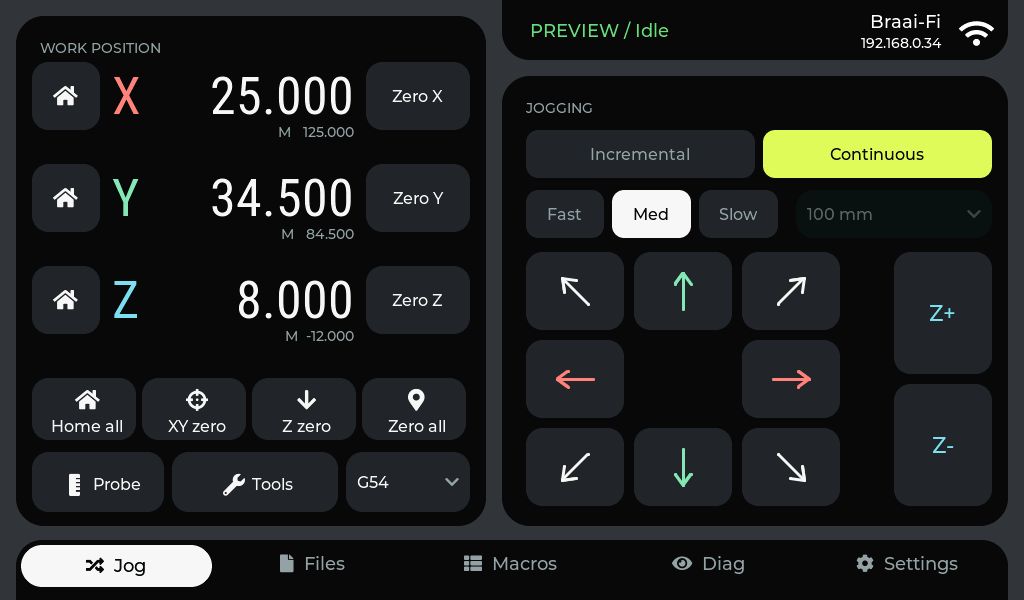
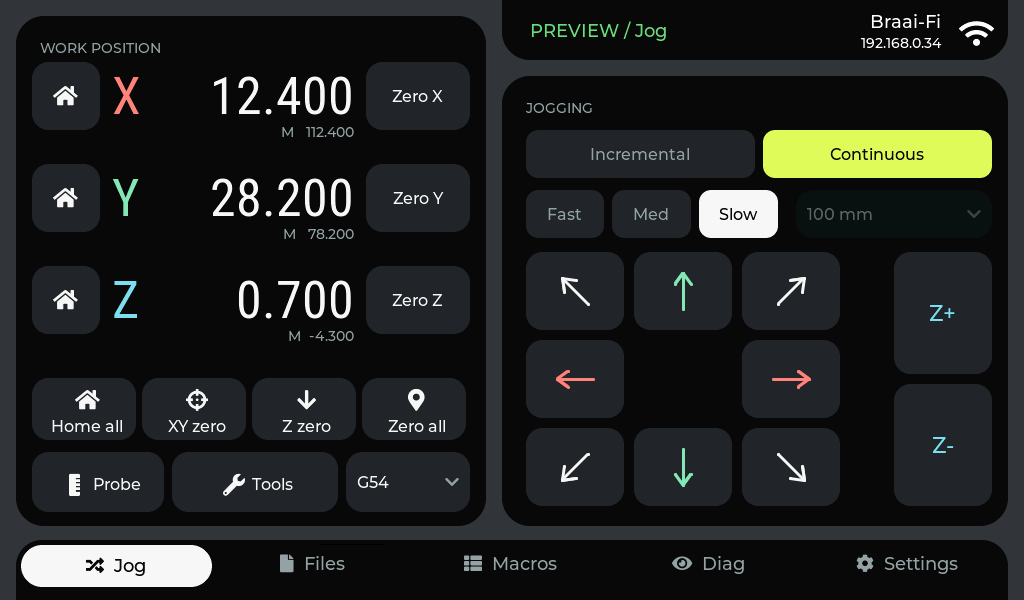
Keep jog controls steady during movement

diff --git a/firmware/viewesmart-p4/main/panel_ui.cpp b/firmware/viewesmart-p4/main/panel_ui.cpp
@@ -131,6 +131,7 @@ static bool file_run_usable[4]={};
 static lv_obj_t *file_previous=nullptr,*file_next=nullptr,*file_page_label=nullptr;
 static bool continuous = false, jog_held = false;
 static uint32_t jog_pressed_at, jog_hold_ms;
+static uint32_t jog_control_key = UINT32_MAX, jog_control_updates;
 static lv_obj_t *jog_buttons[10];
 static int jog_count;
 static char home_axis;
@@ -702,6 +703,11 @@ static void jog_event(lv_event_t *e) {
                                  continuous ? 10000 : jog_step_mm(inches, step_index), jog_speed);
         jog_held = ok && continuous;
         if (jog_held) jog_pressed_at = now();
+        if (!ok) {
+            runtime_snapshot(state);
+            if (state.online && !state.alarm && !state.error &&
+                (state.busy || !strncmp(state.mode, "Jog", 3))) return;
+        }
         result(ok);
     } else if (lv_event_get_code(e) == LV_EVENT_RELEASED || lv_event_get_code(e) == LV_EVENT_PRESS_LOST) {
         release_jog();
@@ -1162,11 +1168,16 @@ static void wifi_notification() {
 
 static void wifi_refresh_ui() {
     wifi_bridge_snapshot(&wifi);
-    if (!modal) lv_label_set_text(wifi_header_name, wifi.connected ? wifi.ssid : wifi.connecting ? "Connecting..." : "Not connected");
-    if (!modal) lv_label_set_text(wifi_header_ip, wifi.connected ? wifi.ip : "Wi-Fi");
-    lv_obj_set_style_text_color(wifi_icon, lv_color_hex(wifi.connected ? WHITE : MUTED), 0);
-    lv_obj_set_style_opa(wifi_icon, !wifi.connected || !wifi.rssi || wifi.rssi >= -60 ? LV_OPA_COVER :
-                                         wifi.rssi >= -75 ? LV_OPA_80 : LV_OPA_50, 0);
+    const char *name = wifi.connected ? wifi.ssid : wifi.connecting ? "Connecting..." : "Not connected";
+    const char *ip = wifi.connected ? wifi.ip : "Wi-Fi";
+    if (!modal && strcmp(lv_label_get_text(wifi_header_name), name)) lv_label_set_text(wifi_header_name, name);
+    if (!modal && strcmp(lv_label_get_text(wifi_header_ip), ip)) lv_label_set_text(wifi_header_ip, ip);
+    lv_color_t icon_color = lv_color_hex(wifi.connected ? WHITE : MUTED);
+    if (!lv_color_eq(lv_obj_get_style_text_color(wifi_icon, 0), icon_color))
+        lv_obj_set_style_text_color(wifi_icon, icon_color, 0);
+    lv_opa_t icon_opa = !wifi.connected || !wifi.rssi || wifi.rssi >= -60 ? LV_OPA_COVER :
+                        wifi.rssi >= -75 ? LV_OPA_80 : LV_OPA_50;
+    if (lv_obj_get_style_opa(wifi_icon, 0) != icon_opa) lv_obj_set_style_opa(wifi_icon, icon_opa, 0);
     if (wifi_attempt && !wifi.connecting && tab_for_page(page) >= 0) {
         wifi_attempt = false;
         wifi_notification();
@@ -1235,6 +1246,7 @@ static void probe_refresh_ui() {
     }
 }
 static void build_page() {
+    jog_control_key = UINT32_MAX;
     storage_preview_viewing(false);
     runtime_snapshot(state);
     if (state.cycle_axis >= 0)
@@ -1453,7 +1465,7 @@ static void refresh_dro(bool colors = true) {
     for (int i = 0; i < 3; ++i) {
         if (state.coordinates && state.wco_known) {
             snprintf(work, sizeof work, "% .3f", state.work[i] / display_scale(inches));
-            snprintf(machine, sizeof machine, "% .3f", state.machine[i] / display_scale(inches));
+            snprintf(machine, sizeof machine, concept_active() ? "M  % .3f" : "% .3f", state.machine[i] / display_scale(inches));
         } else {
             snprintf(work, sizeof work, "--.---");
             snprintf(machine, sizeof machine, "M  --.---");
@@ -1463,15 +1475,19 @@ static void refresh_dro(bool colors = true) {
         if (colors) lv_obj_set_style_text_color(axis_work[i], lv_color_hex(state.status ? TEXT : MUTED), 0);
     }
 }
+static void refresh_jog_data() {
+    refresh_dro(false);
+    char text[64];
+    snprintf(text, sizeof text, "%s%s", runtime_is_demo() ? "PREVIEW / " : "", state.mode);
+    if (strcmp(lv_label_get_text(state_label), text)) lv_label_set_text(state_label, text);
+    if (!lv_dropdown_is_open(wcs_dropdown) && state.wcs >= 54 && state.wcs <= 59 &&
+        lv_dropdown_get_selected(wcs_dropdown) != (unsigned)(state.wcs - 54))
+        lv_dropdown_set_selected(wcs_dropdown, state.wcs - 54);
+    wifi_refresh_ui();
+}
 static void refresh(lv_timer_t *) {
     runtime_snapshot(state);
     hardware_status(state);
-    // Keep the release event responsive instead of restyling the whole page during a held jog.
-    if (jog_held && page == JogPage && !actuator_mode && !modal && state.online && state.status &&
-        !state.alarm && !state.error && (!strcmp(state.mode, "Idle") || !strncmp(state.mode, "Jog", 3))) {
-        refresh_dro(false);
-        return;
-    }
     if (state.sd_active && page != JobPage) {
         close_modal();
         show_page(JobPage);
@@ -1544,13 +1560,19 @@ static void refresh(lv_timer_t *) {
         }
     }
     if(page==FilesPage && local_preview_show)cached_refresh();
-    bool on = ready();
+    bool cnc_jog = page == JogPage && !actuator_mode;
+    bool manual_motion = cnc_jog && state.online && state.identified && state.status &&
+                         !state.alarm && !state.error && !state.sd_active && !state.probing && !state.uploading &&
+                         !state.macro_failed && !state.job_failed &&
+                         (!strcmp(state.mode, "Idle") || !strncmp(state.mode, "Jog", 3));
+    // Keep Jog controls visually steady; model actions still reject busy/non-idle commands.
+    bool on = ready() || manual_motion;
     if(page==FilesPage)for(unsigned i=0;i<4;++i)tools_enable(file_run_buttons[i],on&&!state.listing&&file_run_usable[i]);
     if (page == JogPage && actuator_mode)
         refresh_actuators();
     // Keep input disabled immediately, but avoid a one-frame palette flash for brief command ACKs.
     static uint32_t busy_since;
-    bool command_busy = page == JogPage && state.busy && state.online && state.identified && state.status &&
+    bool command_busy = !manual_motion && page == JogPage && state.busy && state.online && state.identified && state.status &&
                         !state.alarm && !state.error && !state.sd_active && !strcmp(state.mode, "Idle");
     if (!command_busy)
         busy_since = 0;
@@ -1560,6 +1582,15 @@ static void refresh(lv_timer_t *) {
     bool steady_selection = state.online && state.identified && state.status && !state.alarm &&
                             !state.error && !state.sd_active &&
                             (!strcmp(state.mode, "Idle") || !strncmp(state.mode, "Jog", 3));
+    if (cnc_jog && !state.alarm && !state.error) {
+        uint32_t key = unsigned(on) | unsigned(brief_busy) << 1 | unsigned(steady_selection) << 2 |
+                       unsigned(state.online) << 3 | unsigned(state.identified) << 4 | unsigned(state.status) << 5 |
+                       unsigned(continuous) << 6 | unsigned(state.coordinates) << 7 | unsigned(state.wco_known) << 8 |
+                       unsigned(state.modal_known) << 9;
+        if (key == jog_control_key) { refresh_jog_data(); return; }
+        jog_control_key = key;
+        ++jog_control_updates;
+    } else if (cnc_jog) jog_control_key = UINT32_MAX;
     enable(probe_btn, on, brief_busy);
     tools_enable(accessories_btn, on);
     enable_choices(speed_choices, on, steady_selection);
@@ -1783,13 +1814,13 @@ extern "C" void panel_ui_settings(char *buffer, size_t size) {
     for (const auto &m : macros->entries) if (*m.name) ++macro_count;
     snprintf(buffer, size,
              "{\"x\":%.3f,\"y\":%.3f,\"z\":%.3f,\"diameter\":%.3f,\"feed\":%.3f,\"inset\":%.3f,\"tx\":%.0f,\"rx\":%.0f,"
-             "\"baud\":%.0f,\"usb_connection\":%d,\"inches\":%d,\"step\":%d,\"step_mm\":%.3f,\"page\":%d,\"actuator_mode\":%d,\"a_rotary\":%d,\"macro_count\":%u,\"preview_view\":%u,\"local_preview\":%d,\"single_probe\":%d,\"probe_surface\":%u,\"brightness\":%u,\"rgb_ready\":%d,\"rgb_color\":%lu,\"can_setup\":%d,\"probe_open\":%d,\"continuous\":%d,\"mode_checked\":%d,\"jog_speed\":%u,\"jog_hold_ms\":%lu,\"scroll_y\":%d,\"dialog\":\"%s\",\"number_value\":%.6f,\"probe_edit_x\":%.6f,\"probe_edit_y\":%.6f,\"probe_edit_z\":%.6f,\"probe_edit_feed\":%.6f,\"probe_edit_inset\":%.6f,\"header_x\":%d,\"header_y\":%d,\"header_w\":%d,\"header_h\":%d,\"form_w\":%d,\"form_h\":%d,\"form_kind\":\"%s\"}",
+             "\"baud\":%.0f,\"usb_connection\":%d,\"inches\":%d,\"step\":%d,\"step_mm\":%.3f,\"page\":%d,\"actuator_mode\":%d,\"a_rotary\":%d,\"macro_count\":%u,\"preview_view\":%u,\"local_preview\":%d,\"single_probe\":%d,\"probe_surface\":%u,\"brightness\":%u,\"rgb_ready\":%d,\"rgb_color\":%lu,\"can_setup\":%d,\"probe_open\":%d,\"continuous\":%d,\"mode_checked\":%d,\"jog_speed\":%u,\"jog_hold_ms\":%lu,\"jog_control_updates\":%lu,\"jog_enabled\":%d,\"scroll_y\":%d,\"dialog\":\"%s\",\"number_value\":%.6f,\"probe_edit_x\":%.6f,\"probe_edit_y\":%.6f,\"probe_edit_z\":%.6f,\"probe_edit_feed\":%.6f,\"probe_edit_inset\":%.6f,\"header_x\":%d,\"header_y\":%d,\"header_w\":%d,\"header_h\":%d,\"form_w\":%d,\"form_h\":%d,\"form_kind\":\"%s\"}",
              prefs.probe.x, prefs.probe.y, prefs.probe.z, prefs.probe.diameter, prefs.probe.feed, prefs.probe.inset, prefs.tx,
              prefs.rx, prefs.baud, usb_connection, inches, step_index, jog_step_mm(inches, step_index), page, actuator_mode, a_rotary, macro_count, cached_view, local_preview_show, single_probe, probe_surface_choice, screen_brightness, hardware_led_ready(), (unsigned long)hardware_led_color(), ready(), probe_start != nullptr, continuous,
              page == JogPage && !actuator_mode && mode_choices
                  ? (lv_buttonmatrix_has_button_ctrl(mode_choices, 1, LV_BUTTONMATRIX_CTRL_CHECKED) ? 1
                     : lv_buttonmatrix_has_button_ctrl(mode_choices, 0, LV_BUTTONMATRIX_CTRL_CHECKED) ? 0 : -1)
-                 : -1, jog_speed, (unsigned long)jog_hold_ms, body ? lv_obj_get_scroll_y(body) : 0, dialog,
+                 : -1, jog_speed, (unsigned long)jog_hold_ms, (unsigned long)jog_control_updates, jog_count && !lv_obj_has_state(jog_buttons[0], LV_STATE_DISABLED), body ? lv_obj_get_scroll_y(body) : 0, dialog,
              number ? strtof(lv_textarea_get_text(number),nullptr) : 0.0,
              probe_offsets_open ? strtof(lv_textarea_get_text(probe_offset_fields[0]),nullptr) : 0.0,
              probe_offsets_open ? strtof(lv_textarea_get_text(probe_offset_fields[1]),nullptr) : 0.0,

diff --git a/tools/check-jog-response.py b/tools/check-jog-response.py
@@ -24,11 +24,31 @@ try:
   tap(264,520) if kind=='confirmation' else tap(976,32)
  tap(116,566);idle();tap(878,154)
  assert data()['continuous']
+ time.sleep(.5)
+ baseline=data()['jog_control_updates']
+ time.sleep(.4)
+ assert data()['jog_control_updates']==baseline,'Idle repeatedly restyled controls'
  for hold in (60,100,150):
   idle();cmd(f'HOLD 575 379 {hold}')
   d=data();assert '0x85' in cmd('LAST'),'Release did not cancel jog'
-  assert hold<=d['jog_hold_ms']<hold+150,d
+  assert hold-20<=d['jog_hold_ms']<hold+100,d  # Input timers have tick granularity.
+  assert d['jog_control_updates']==baseline and d['jog_enabled'], 'Jog toggled control styling'
   print('PASS held',hold,'ms; cancel sent at',d['jog_hold_ms'],'ms',flush=True)
+ cmd('RX <Jog|MPos:101,0,0|WCO:0,0,0|FS:1000,0|Pn:i>');time.sleep(.4)
+ d=data();assert d['jog_control_updates']==baseline and d['jog_enabled'] and not d['can_setup'],d
+ previous=cmd('LAST');cmd('HOLD 575 379 60')
+ assert cmd('LAST')==previous and data()['form_kind']=='none','Busy jog tap queued work or opened a popup'
+ idle();tap(638,154);time.sleep(.3);baseline=data()['jog_control_updates']
+ cmd('HOLD 575 379 100');assert '$J=' in cmd('LAST'),'Incremental jog was cancelled on release'
+ cmd('RX <Jog|MPos:102,0,0|WCO:0,0,0|FS:1000,0|Pn:i>');time.sleep(.4)
+ d=data();assert d['jog_control_updates']==baseline and d['jog_enabled'] and not d['can_setup'],d
+ idle();assert data()['jog_control_updates']==baseline
+ cmd('DEMO OFF');time.sleep(.4);assert not data()['jog_enabled'],'Disconnect did not disable jog controls'
+ cmd('DEMO ON');idle();assert data()['jog_enabled'],'Reconnect did not enable jog controls'
+ cmd('RX ALARM:1');time.sleep(.4);assert data()['form_kind']=='confirmation'
+ tap(264,520);time.sleep(.3);assert not data()['jog_enabled'],'Alarm did not disable jog controls'
+ cmd('DEMO ON');idle();assert data()['jog_enabled'],'Controls stayed disabled after clearing alarm'
+ print('PASS stable Idle/Jog controls; model setup guard, incremental completion, disconnect and fault disabling',flush=True)
 finally:
  if p.is_open:
   try:

diff --git a/AGENTS.md b/AGENTS.md
@@ -511,4 +511,4 @@ USB3 CDC ACM host uses peripheral_map bit 1 and GPIO24/25, routed with usb_seria
 
 The selected controller transport connects on pendant boot. Explicit Disconnect suppresses retries until Connect or reboot; demo mode remains fully isolated. USB re-enumeration and identification timeout retry only identification, never interrupted jobs/macros. A persistent USB open failure with a physically present device cycles root-port power through the SDK, without changing the controller's supply or settings. tools/check-controller-boot.py checks startup and can watch a physical controller reset; capture complete UART output for any LCD restart.
 
-During held CNC jogs refresh updates changed DRO text only; do not restyle the full page in that path. UG PREFS exposes jog_speed and jog_hold_ms (press to completed cancel transmission). tools/check-jog-response.py checks release timing in demo mode and leaves demo isolated. Zeroing confirmation has a neutral title/card and Cancel with a green Set zero action; USER_2 marks its explicitly neutral Cancel so the full-screen styling does not force it red. Fault dialogs retain their red styling.
+CNC Jog caches control appearance by availability/mode flags. Idle/Jog updates change DRO, status and Wi-Fi data only; do not restyle or grey all controls around each jog. The model still rejects busy/non-idle commands; busy direction taps are ignored without queuing work or opening a popup. Alarms, disconnects, jobs and other machine modes still disable controls. Invalidate the appearance key on page rebuild and faults. UG PREFS exposes jog_speed, jog_hold_ms, jog_control_updates and native jog_enabled. tools/check-jog-response.py checks continuous/incremental stability, release timing, busy rejection and fault/disconnect disabling in demo mode; it leaves demo isolated. Zeroing confirmation has a neutral title/card and Cancel with a green Set zero action; USER_2 marks its explicitly neutral Cancel so the full-screen styling does not force it red. Fault dialogs retain their red styling.

diff --git a/docs/live-controller-test-plan.md b/docs/live-controller-test-plan.md
@@ -60,3 +60,9 @@ For every executed case record **pass**, **fail** or **not tested**, firmware re
 - Before the held-jog redraw fix, a requested 60 ms Slow jog held the UI for 882 ms and moved 45.24 mm on the bare board. With the same feed preset after the fix, 60/100/150 ms requests moved 1.75/2.92/4.38 mm. Host command round-trip includes later rendering; it is not the cancel-transmission timestamp.
 - The embedded timing check subsequently measured cancel transmission at 65/100/150 ms for 60/100/150 ms holds in isolated demo mode. Slow remains 25% of the moving axes' maximum rate, matching Ooznest Control. No controller settings or offsets were changed by these jog trials.
 - Full embedded model tests passed, including stream window/fault/fresh-Idle completion checks. Live job streaming remains pending.
+
+### Jog appearance follow-up
+
+CNC controls now keep their appearance through Idle/Jog, with live positions and status updated independently. Control styling runs only when availability or the mode selector changes; Wi-Fi labels and signal styling update only when their displayed values change. Native alarm/disconnect disabling and model command guards remain in effect. Rejected busy jog taps do not queue another move or open a blocking notice.
+
+The isolated response check also verifies unchanged jog_control_updates across idle, continuous and incremental cycles, enabled-looking Jog controls with can_setup false, and actual disabling/re-enabling for disconnect and faults. The first live repeat measured 50/60/100 ms holds at 1.46/1.75/2.62 mm; host round trips were 157/169/209 ms. These injected durations do not establish a minimum physical-finger travel; physical tap feel still needs user confirmation.
